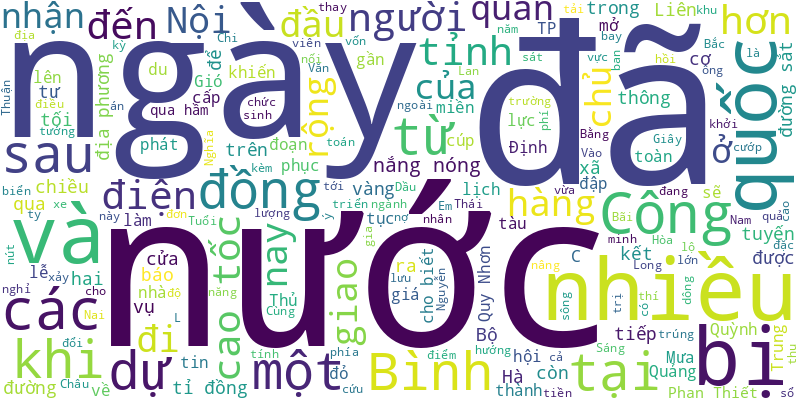
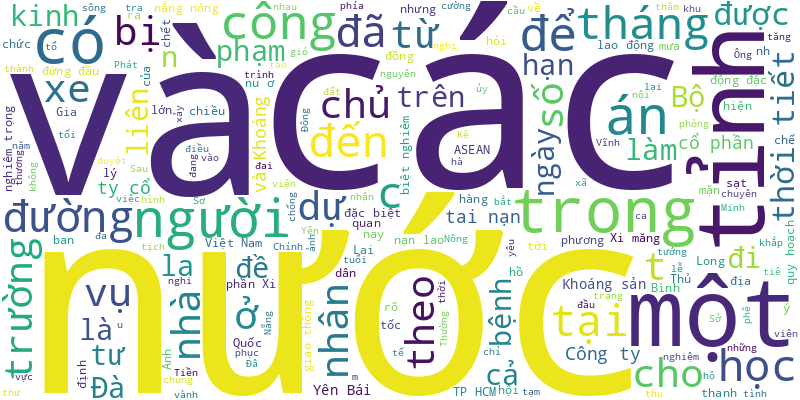
🍀 = 10%

diff --git a/README.md b/README.md
@@ -1,6 +1,25 @@
 # Tuoi Tre RSS 
 
 ## Giáo dục 
+- Mùa tuyển sinh lớp 10 năm 2024, học sinh ở TP.HCM sẽ được đăng ký cùng lúc vào lớp 10 tiếng Anh tích hợp và lớp 10 chuyên Anh mới.
+- Sáng 15-4, trường THPT Hà Đông (Hà Nội) tổ chức lễ trao học bổng du học Canada và tuyên dương học sinh giỏi cho những em có thành tích xuất sắc.
+- Phòng Giáo dục và Đào tạo huyện Cái Bè, tỉnh Tiền Giang cho biết đã nắm được vụ việc gia đình một nam sinh lớp 6 trình báo bị bạn học đánh khi đang trên đường đi học về nhà.
+- Sở Giáo dục và Đào tạo TP.HCM vừa có hướng dẫn cách đăng ký thi tuyển sinh lớp 10 chuyên năm học 2024-2025.
+- Nộp hồ sơ vào Trường đại học Ngoại thương để 'thoát khỏi ù lì, tự ti', Lê Đỗ Thành Trung đã có cú bứt phá ngoạn mục với điểm GPA toàn khóa 3.93/4.0, điểm rèn luyện 100/100.
+- Trường đại học Bách khoa TP.HCM đang khảo sát học viên, sinh viên một số khoa về công tác tổ chức lễ tốt nghiệp đợt tháng 4-2024, sau khi sinh viên phản ứng.
+- Thanh tra tỉnh Nghệ An báo cáo việc các thầy cô mượn đất của trường để ở và cho rằng đó là đất của gia đình là không có cơ sở.
+- Tỉnh Nghệ An sẽ tuyển dụng 2.187 giáo viên mầm non và phổ thông công lập vào biên chế cho năm học 2023-2024.
+- Có nên cho trẻ lớp lá học trước chương trình lớp 1 hay không là câu hỏi gây tranh cãi, thậm chí 'đau đầu' với các bậc phụ huynh.
+- Máy sấy của thầy Hiệp có thể sấy trung bình 100kg sản phẩm/mẻ sấy, một giờ chỉ tốn 0,6 -2,5 kWh điện tùy trời nắng hay mưa.
+- Năm học 2024-2025, nhiều trường tư thục tại TP.HCM thu học phí bậc mầm non trên 300 triệu đồng, có trường vượt 500 triệu đồng/năm.
+- Bước đầu xác định do học sinh lớp 1 quên bài nên cô giáo nóng nảy và đã 'tác động vật lý' nhẹ với em.
+- Trường mầm non Vàng Anh (quận 5, TP.HCM) dự kiến tăng học phí gần 8 triệu đồng/tháng sẽ có gì thay đổi so với trước?
+- Hai luồng quan điểm luôn tồn tại lâu nay ở các bậc phụ huynh về chuyện chuẩn bị cho trẻ vào lớp 1 có cần học chữ trước hay không.
+- Đến nay đã có gần 70 trường công bố điểm sàn xét kết quả kỳ thi đánh giá năng lực Đại học Quốc gia TP.HCM năm 2024, trong đó cao nhất 850 điểm và thấp nhất 450 điểm.
+- Xung quanh chuyện "Trường mầm non công lập ở TP.HCM tính tăng học phí lên gần 8 triệu đồng/tháng", có nhiều ý kiến tranh luận.
+- Kể từ năm 2022, bức tranh về học phí đại học đã bắt đầu có sự thay đổi khi nhiều trường được phép tăng học phí.
+- Trường phổ thông dân tộc bán trú tiểu học và THCS La Pán Tẩn (huyện Mù Cang Chải, Yên Bái) đã đình chỉ một giáo viên để xác minh.
+- Cha mẹ định hướng ngành này nhưng con quyết chọn ngành kia là câu chuyện khá phổ biến của nhiều nhà mỗi khi vào mùa tuyển sinh.
 - Một chàng trai có năng khiếu học vấn đã bị trường đại học danh tiếng ở Trung Quốc từ chối vì lịch sử cực kỳ tàn ác với mèo.
 - Festival sinh viên kiến trúc toàn quốc lần thứ 14 với chủ đề “Huế - tuổi trẻ với di sản” đã khai màn tại TP Huế tối 21-4.
 - Các giáo sư, phó giáo sư trên cả nước sẽ được giới thiệu các nhà giáo, nhà khoa học có uy tín chuyên môn khoa học cao tham gia vào hội đồng giáo sư các cấp.
@@ -12,57 +31,38 @@
 - Sở Giáo dục và Đào tạo TP.HCM vừa yêu cầu các trường mầm non không được dạy trước chương trình lớp 1 cho trẻ lớp lá.
 - Sáng nay 21-4, báo Tuổi Trẻ tiếp tục phối hợp Vụ Giáo dục đại học (Bộ Giáo dục và Đào tạo) tổ chức chương trình tư vấn đặc biệt 'Cùng con chọn trường' dành riêng cho các bậc phụ huynh.
 - Các em học sinh tiểu học, THCS trên địa bàn TP.HCM đã tìm hiểu về đất, đá, hóa thạch khi đi tham quan thực tế tại Trường đại học Khoa học tự nhiên, Đại học Quốc gia TP.HCM.
-- Nữ sinh Lê Thị Bích Đào hoàn thành chương trình đại học trong 3,5 năm, với điểm trung bình chung tích lũy toàn khóa 3.79/4.0, tốt nghiệp loại xuất sắc.
-- Phụ huynh luôn quan tâm đến chuyện con sẽ học ngành nào, chọn trường nào, đặc biệt khi mùa thi cử, tuyển sinh đang sắp bước vào cao điểm.
-- Huyện đã yêu cầu công an xem xét xử lý phụ huynh xông vào trường tát cô giáo, sau khi đã xử lý hành vi cô giáo đánh học sinh.
-- Cô giáo đánh học sinh đã bị kỷ luật, chuyển sang trường khác. Phụ huynh đến tát cô giáo, yêu cầu cô giáo phải đến nhà xin lỗi trực tiếp.
-- Với những khuyết điểm, vi phạm trong quản lý tài chính, hiệu trưởng Trường tiểu học Kim Liên đã bị cách chức bí thư chi bộ nhiệm kỳ 2022 - 2025.
-- Trước khi bước vào hội thi Lớn lên cùng sách, 200 học sinh từ lớp 6 đến lớp 9 ở TP.HCM đã được trải nghiệm mua sách tặng bạn ở Cần Giờ.
-- Ngoài Tập đoàn DMH Capital Group, nhiều khả năng còn có thêm nhà đầu tư khác dự định đầu tư tái cấu trúc Trường quốc tế AISVN.
-- Đề xuất cải tiến lương giáo viên là nỗ lực được Bộ GD-ĐT xem như giải pháp quan trọng để ngăn tình trạng giáo viên nghỉ việc, thu hút người giỏi.
-- Phụ huynh bức xúc việc học sinh Trường tiểu học và trung học cơ sở Hiệp Hòa, huyện Vũ Thư, tỉnh Thái Bình phải đến trường ngày nghỉ lễ giỗ Tổ.
-- Ông Trần Anh Tuấn - phó chủ tịch tỉnh - được giao điều hành Trường cao đẳng Y tế Quảng Nam sau khi hiệu trưởng trường này bị khởi tố.
-- Nhiều trường ĐH lớn bắt đầu nhận hồ sơ xét tuyển học bạ THPT cho mùa tuyển sinh ĐH năm nay.
-- Không chỉ học sinh chuẩn bị vào lớp 6, học sinh lớp 3 cũng được yêu cầu khai thông tin. Phụ huynh bối rối không biết ghi thông tin nơi sinh, quê quán sao cho đúng.
-- Chiều 18-4, ông Lê Hoài Nam, phó giám đốc Sở Giáo dục và Đào tạo TP.HCM, đã giải thích về việc giảm chỉ tiêu tuyển sinh lớp 10 năm 2024 ở trường THPT công lập.
-- Chiều 18-4, Sở Giáo dục và Đào tạo TP.HCM công bố mức học phí của các loại hình trường chuẩn bị tuyển sinh lớp 10 năm 2024.
-- Lãnh đạo UBND tỉnh Nghệ An và Thanh Chương từng đối thoại, giải đáp những kiến nghị của phụ huynh về chủ trương sáp nhập trường.
-- Ngày 17-4, ban giám khảo tiến hành chấm điểm những tác phẩm vòng chung kết hội thi ảnh Tuổi Xanh dành cho học sinh ở TP.HCM.
-- Trường đại học Bách khoa (Đại học Quốc gia TP.HCM) vẫn không thay đổi quyết định tổ chức lễ tốt nghiệp tháng 4-2024 ở hai hội trường A5 và B4, dù sinh viên phản ứng.
-- Nữ sinh trường Ams Lê Hà Anh vừa nhận tin trúng tuyển 14 trường đại học, tất cả đều là ngành kinh tế, trong đó có 3 trường thuộc nhóm Ivy League.
-- 8h30 sáng 21-4, chương trình tư vấn tuyển sinh đặc biệt dành cho phụ huynh, chủ đề "Cùng con chọn trường", được báo Tuổi Trẻ tổ chức tại Đại học Kinh tế TP.HCM (279 Nguyễn Tri Phương, phường 5, quận 10) với sự đồng hành của Tập đoàn VinGroup.
 ![Edu](Edu.png)
 ## Thời Sự 
-- Sáng nay 22-4, Ngân hàng Nhà nước tung 16.800 lượng vàng miếng SJC (tương đương 631kg vàng) ra đấu giá.
-- Tin tức đáng chú ý: Chi phí dự triển lãm khoảng 5-7 tỉ đồng, một số hãng ô tô rút lui vì ít hiệu quả; Ủy ban Thường vụ Quốc hội xem xét kết quả giám sát gói hỗ trợ phục hồi, phát triển; Ca sởi đầu tiên tại Hà Nội, bệnh nhân đã tiêm đủ mũi vắc xin...
-- Hôm nay thời tiết nắng nóng tiếp diễn cả nước, về chiều tối vài nơi mưa rào kèm dông.
-- Em S.A.L. và L.A.C. (sinh năm 2009) đạp xe đi cách nhà gần 500km. Sau khi xác minh, Công an huyện Mai Châu (Hòa Bình) đã đưa hai thiếu niên về bàn giao cho gia đình.
-- Tối 21-4, Công an TP Quy Nhơn (Bình Định) cho biết vừa nhận đơn báo từ một người phụ nữ ở Quy Nhơn rằng mình bị lừa hơn 200 triệu đồng sau khi nhận được tin báo trúng thưởng qua mạng.
-- Liên quan bài viết “Chủ đầu tư nợ tiền, các nút giao cao tốc Phan Thiết - Dầu Giây bị cúp điện”, tối 21-4, Công ty TNHH một thành viên Điện lực Đồng Nai đã phản hồi đến Tuổi Trẻ Online.
-- Tối 21-4, ông Nguyễn Tấn Nghĩa - chủ tịch hội đồng quản trị Công ty cổ phần Môi trường Bình Định - cho biết trong ngày 20 và 21-4, lực lượng cứu hộ bờ biển Quy Nhơn đã cứu bốn người bị đuối nước khi tắm biển.
-- Theo dự báo của cơ quan khí tượng cho thấy dịp nghỉ lễ 30-4 và 1-5, khả năng nhiều địa phương trên cả nước xảy ra nắng nóng, đặc biệt tại miền Trung dự báo nắng nóng trên 40 độ C, thậm chí lên tới 45 độ C.
-- Vé máy bay nội địa đắt đỏ hơn hẳn so với nhiều chặng bay quốc tế, khiến nhiều người tính toán thay đổi điểm du lịch trong nước sang đi nước ngoài như Thái Lan, Malaysia, Trung Quốc.
-- Thủ tướng trăn trở làm sao nâng cấp quốc lộ 4B nhanh nhất để hai tỉnh miền núi Lạng Sơn, Cao Bằng 'có biển', kết nối cụm cảng phía Hải Phòng, Quảng Ninh.
-- Do chủ đầu tư nợ tiền nhiều kỳ nên tại các nút giao của cao tốc Phan Thiết - Dầu Giây đi qua hai tỉnh Đồng Nai, Bình Thuận đã bị các đơn vị điện lực cúp điện.
-- Long An đang tính toán các hướng tuyến để tiếp tục mở rộng quốc lộ 62 lên 6 làn xe sau khi tuyến đường này được Bộ Giao thông vận tải đầu tư nâng cấp, cải tạo.
-- Vào lúc 18h15 chiều nay 21-4, lãnh đạo ngành đường sắt đã chính thức phát lệnh thông tuyến đường sắt qua hầm Bãi Gió sau gần 10 ngày bị sự cố.
-- Liên quan đến vụ cướp tiệm vàng ở TP Phan Thiết, ngày 21-4, tin từ Cơ quan cảnh sát điều tra Công an tỉnh Bình Thuận cho biết đã khởi tố, bắt tạm giam bị can Thái Văn Trường.
-- Dự án đập dâng hạ lưu sông Trà Khúc ban đầu là đập cao su, vốn chỉ 60 tỉ đồng. Sau nhiều lần điều chỉnh, thay đổi công trình thành đập bê tông kết hợp cầu giao thông, vốn cũng đẩy lên 1.500 tỉ đồng.
-- Cùng một dự án mở rộng đường Nguyễn Ảnh Thủ nối dài, đoạn đã xong đường rộng thênh thang, đoạn còn lại đứng hình.
-- 6 thí sinh đậu kỳ thi viên chức 2023 của tỉnh Quảng Ngãi vừa bị UBND tỉnh hủy bỏ kết trúng tuyển.
-- Một tháng tới, nắng nóng có xu hướng gia tăng nhiều hơn tại khu vực Bắc Bộ và miền Trung, còn khu vực Tây Nguyên - Nam Bộ tiếp tục nắng nóng diện rộng.
-- Cao tốc Nha Trang - Cam Lâm thu phí từ ngày 26-4, giá mỗi lượt từ gần 82.000 - 311.000 đồng, khi đi qua hơn 49km đường cao tốc này.
-- Quảng Trị hiện còn tồn 23.196 giấy chứng nhận quyền sử dụng đất (sổ đỏ) tại các địa phương. Cơ quan chức năng sẽ mời người dân đến nhận sổ đỏ và hoàn thành trong năm 2024.
-- Mưa lớn kèm gió lốc xảy ra rạng sáng 21-4 làm sập nhà, khiến em Giàng T.M. (5 tuổi, thôn Phúng Tủng, xã Sủng Trái, Đồng Văn, Hà Giang) tử vong.
-- Nhiều chủ quán ăn uống ở thị xã Bình Minh, tỉnh Vĩnh Long than vãn, đóng cửa do cúp nước liên tục 3 ngày. Nhiều phường dù đã được khắc phục, song nước còn yếu.
-- Lễ 30-4 và 1-5 được nghỉ 5 ngày liên tiếp mở ra ‘cơ hội vàng’ để du khách trong và ngoài nước đến Phú Quốc. Các doanh nghiệp làm du lịch địa phương rộn ràng ưu đãi giá dịch vụ lưu trú, vui chơi 15-20% để thu hút khách nội địa đến chơi lễ.
-- Vụ tai nạn của tàu Hàng Châu là do chạy ẩu hay do trên sông dày đặc sà lan chở cát?
-- Mưa dông lớn đêm 20-4 khiến hơn 400 cây xanh tại Hà Nội gãy đổ, nghiêng ngả. Đến ngày 21-4, toàn TP chưa ghi nhận thiệt hại về người.
-- Địa phương ở Nghệ An lý giải việc đặt tên xã Quỳnh An khi sáp nhập hai xã Quỳnh Đôi và Quỳnh Hậu mang nhiều ý nghĩa, hài hòa.
-- Từ ngày 22-4 sẽ thí điểm cấp phiếu lý lịch tư pháp trên VNeID ở Hà Nội, Thừa Thiên Huế, sau đó nhân rộng toàn quốc.
-- Một người đàn ông vào cửa hàng điện thoại giả vờ mua rồi cướp điện thoại chạy nhưng không thoát khỏi chủ cửa hàng đang bồng con nhỏ.
-- Thủ tướng phát động khởi công cao tốc cửa khẩu Hữu Nghị - Chi Lăng hơn 11.000 tỉ đồng, đoạn cuối cùng của tuyến cao tốc Bắc - Nam phía đông.
-- Dự kiến 17h chiều nay ngành đường sắt tiến hành thông kỹ thuật, thử tải bằng tàu hàng qua hầm Bãi Gió. Nếu ổn định, từ 18h chiều nay toàn bộ các đoàn tàu sẽ đi qua hầm đường sắt từng bị sạt lở phải khắc phục 10 ngày qua.
+- Sau một thời gian đình trệ, nhà thầu Anh Vinh đưa máy móc tới công trường để thi công lại nhưng chủ đầu tư không đồng ý.
+- Trong những tháng tới (tháng 5 đến tháng 7-2024), thời tiết các miền trên cả nước có những chuyển biến rõ rệt.
+- Một số tin tức đáng chú ý: TP.HCM kiểm tra việc tái lập mặt đường dịp lễ; Công ty cổ phần Hoàng Anh Gia Lai vừa có thêm 1.300 tỉ đồng trả nợ; Phát hiện thủ đoạn lừa đảo đi Canada...
+- Hôm nay thời tiết cả nước nắng nóng gay gắt khắp nơi, trời khô hạn, oi bức, chiều tối Bắc Bộ đề phòng mưa dông, gió lốc.
+- Sở Nông nghiệp và Phát triển nông thôn tỉnh Long An đề nghị tăng cường xả nước từ hồ Dầu Tiếng về sông Vàm Cỏ Đông để khống chế ranh mặn, tạo nguồn nước chống hạn mặn.
+- Người đứng đầu Chính phủ Lào - nước đang giữ ghế chủ tịch ASEAN năm 2024 - đã đến Việt Nam, tham dự Diễn đàn Tương lai ASEAN theo lời mời của Thủ tướng Phạm Minh Chính.
+- Liên quan đến vụ tai nạn lao động đặc biệt nghiêm trọng làm 7 người chết ở Công ty cổ phần Xi măng và Khoáng sản Yên Bái, Thủ tướng yêu cầu khẩn trương điều tra, làm rõ nguyên nhân, làm rõ trách nhiệm tổ chức, cá nhân liên quan.
+- Bí thư Tỉnh ủy Yên Bái Đỗ Đức Duy đã tới bệnh viện thăm hỏi 3 nạn nhân bị thương trong vụ tai nạn lao động đặc biệt nghiêm trọng xảy ra tại Công ty cổ phần Xi măng và Khoáng sản Yên Bái.
+- Cơ quan chức năng đang khảo sát, lấy mẫu thí nghiệm 52 mỏ cát ở các tỉnh Vĩnh Long, Tiền Giang và Bến Tre để đề xuất phục vụ cho vành đai 3 TP.HCM.
+- Sở Kế hoạch và Đầu tư Khánh Hòa vừa đề nghị làm thủ tục đi công tác cho 16 cán bộ lãnh đạo, chuyên viên xuất cảnh sang Mỹ xúc tiến đầu tư, kết nghĩa với hai TP Mỹ, học hỏi mô hình kinh đô điện ảnh Hollywood.
+- Theo chuyên gia khí tượng, thời tiết chủ đạo trong 5 ngày nghỉ lễ 30-4 và 1-5 là nắng nóng bao trùm khắp các tỉnh thành trên cả nước.
+- Các đại biểu cho rằng quy hoạch chung và quy hoạch kinh tế xã hội thực tế trùng nhau, chỉ cần một quy hoạch chung giúp giảm bớt phiền hà và kinh phí cho Nhà nước.
+- Đơn vị cấp nước lý giải nguyên nhân hàng trăm hộ dân ở phường Đông Thuận, thị xã Bình Minh, tỉnh Vĩnh Long 4 ngày liên tục gặp tình trạng khuya có nước, nhưng ban ngày cúp nước.
+- Chiều 22-4, Chủ tịch Quốc hội đã góp ý vào một số nội dung dự Luật Địa chất và Khoáng sản tại phiên họp của Ủy ban Thường vụ Quốc hội.
+- Không ít các bệnh nhân lớn tuổi mắc các bệnh mạn tính, đã điều trị ổn định vẫn phải vất vả bắt xe vượt hàng chục km đến bệnh viện thăm khám hằng tháng.
+- Ban quản lý dự án đầu tư xây dựng các công trình giao thông Đà Nẵng xác nhận có tình trạng xe chở đất xử lý sạt trượt từ dự án đường vành đai phía Tây đi ra ngoài khu vực được phê duyệt đổ đất.
+- Ông Phan Thành Được - tài công lái tàu Hàng Châu gây tai nạn khiến 1 người chết, 2 người bị thương - bị khởi tố, bắt tạm giam.
+- Theo Cục Đường bộ Việt Nam, hiện phương án tổ chức giao thông trên cao tốc Cam Lộ - La Sơn chỉ là phương án tạm thời được Bộ Giao thông vận tải phê duyệt.
+- Sau 8 ngày đóng quốc lộ 1 qua đèo Cả (địa phận Phú Yên, Khánh Hòa) để đảm bảo an toàn, khắc phục sự cố sạt lở hầm đường sắt Bãi Gió, từ chiều tối nay đường đèo này hoạt động lại bình thường.
+- Tổng thư ký ASEAN Kao Kim Hourn chia sẻ ông được truyền cảm hứng khi lắng nghe các câu hỏi và đề nghị của thanh niên khu vực trong cuộc đối thoại ở Hà Nội.
+- Hiện tại, mùa mưa bão sắp đến, trong trường hợp thời tiết xấu, mưa lớn và triều cường, các nhà dân dọc theo tuyến kè 1.1 Thanh Đa (gồm 32 hộ dân) có thể sạt lở về phía sông bất cứ khi nào.
+- Để chủ động phòng chống hạn mặn, UBND TP.HCM yêu cầu các địa phương tuyên truyền người dân có hình thức linh hoạt trữ nước ngọt, sử dụng nước tiết kiệm, tránh lãng phí nguồn nước ngọt.
+- 3 thanh niên dắt chó chiếm gốc cây mai anh đào đẹp nhất ở quảng trường Lâm Viên Đà Lạt để thu tiền chụp ảnh bị phạt 1,5 triệu đồng/trường hợp.
+- Một xe Đà Nẵng 2 tháng liên tiếp đứng đầu sổ vi phạm tốc độ theo dữ liệu hộp đen. Một nhà xe khách thì có 17 trong số 20 xe đứng đầu bảng danh sách vi phạm tốc độ.
+- Đã quá hạn cưỡng chế đối với công trình trái phép tòa nhà câu lạc bộ golf Đồi Cù Đà Lạt, nhưng việc cưỡng chế còn dây dưa.
+- Việt Nam đã học được nhiều kinh nghiệm từ Hiệp định Geneve năm 1954, xem đây là cuốn cẩm nang quý báu kể từ đó đến nay.
+- Do thời tiết nắng nóng, số người bị đột quỵ tại 2 tỉnh Bình Định, Phú Yên tăng cao, nhất là người lớn tuổi.
+- Một vụ tai nạn lao động đặc biệt nghiêm trọng xảy ra tại Công ty cổ phần Xi măng và Khoáng sản Yên Bái làm 7 người tử vong.
+- Cựu giám đốc Sở Giáo dục và Đào tạo tỉnh Gia Lai nhận án 12 tháng tù cho hưởng án treo, do sai phạm trong dự án số hóa hồ sơ, bảng điểm học sinh.
+- Trên đường đi học về, 3 học sinh một trường tiểu học tại huyện Cư Kuin (tỉnh Đắk Lắk) rủ nhau xuống hồ tắm và rơi vào vùng nước sâu nên chết đuối.
 ![New](News.png)
 ## Nhịp sống số 
 - Việc đầu tư khoảng 1 tỉ USD để đào tạo 50.000 kỹ sư bán dẫn sẽ gián tiếp tạo nguồn thu 15 - 16 tỉ USD cho nền kinh tế.
